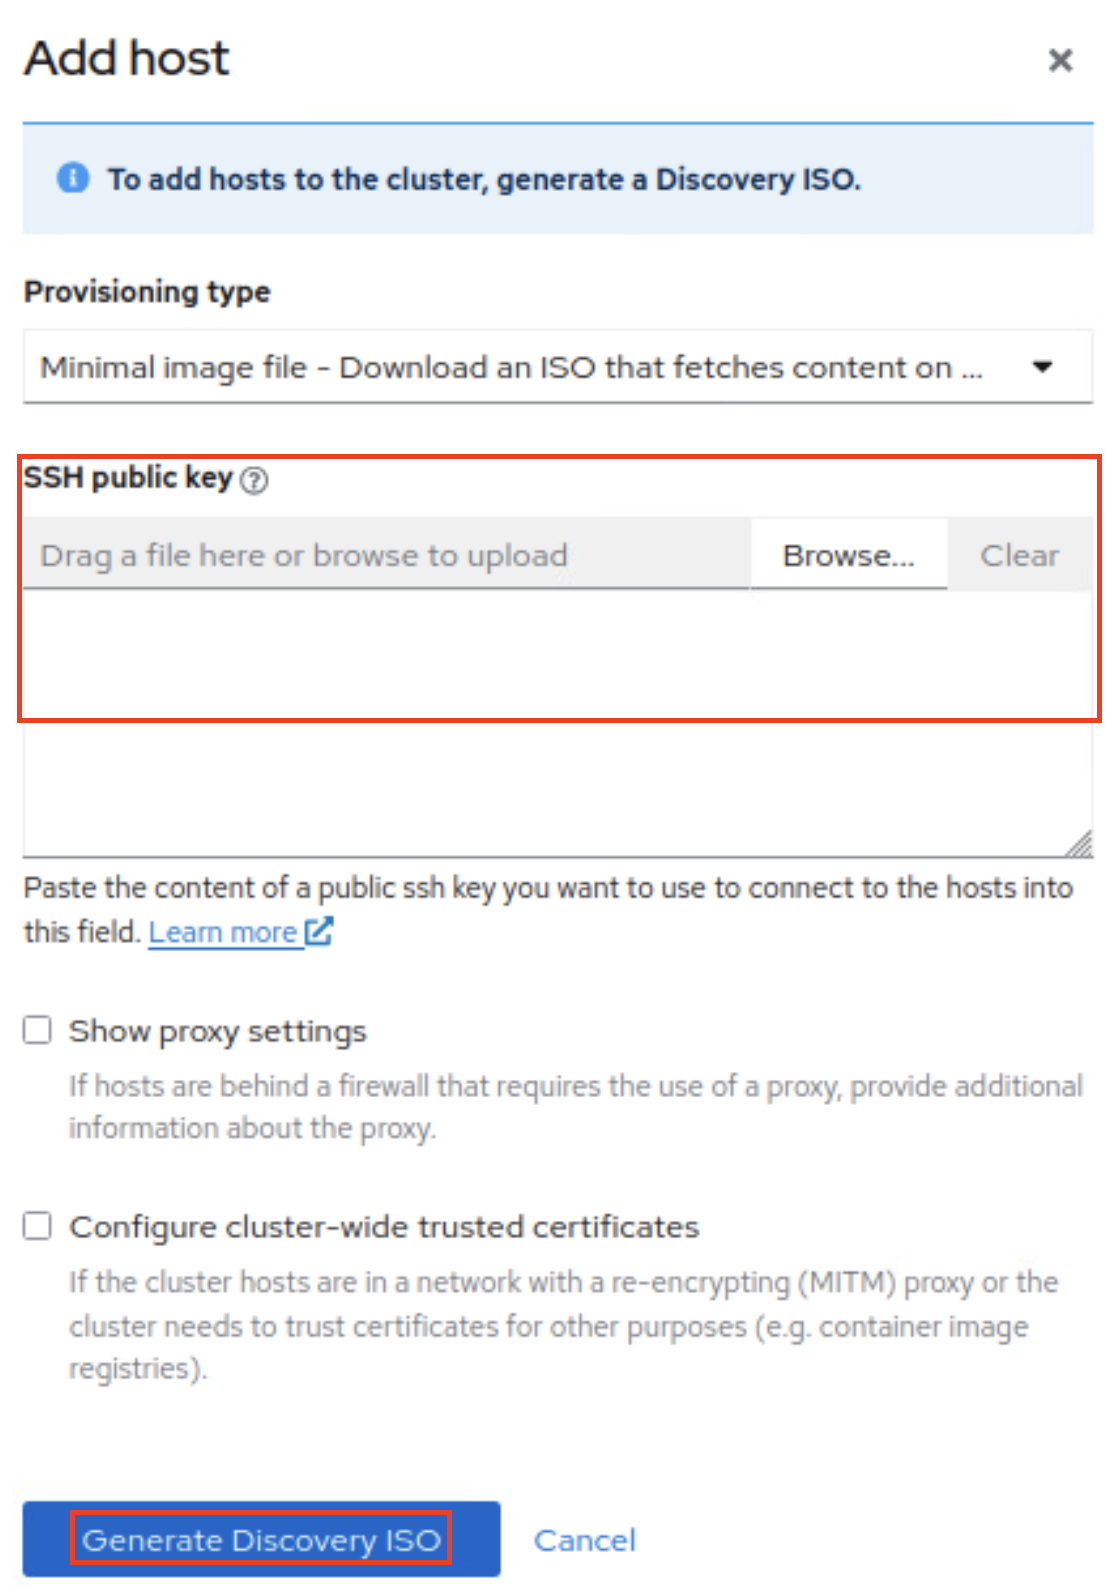
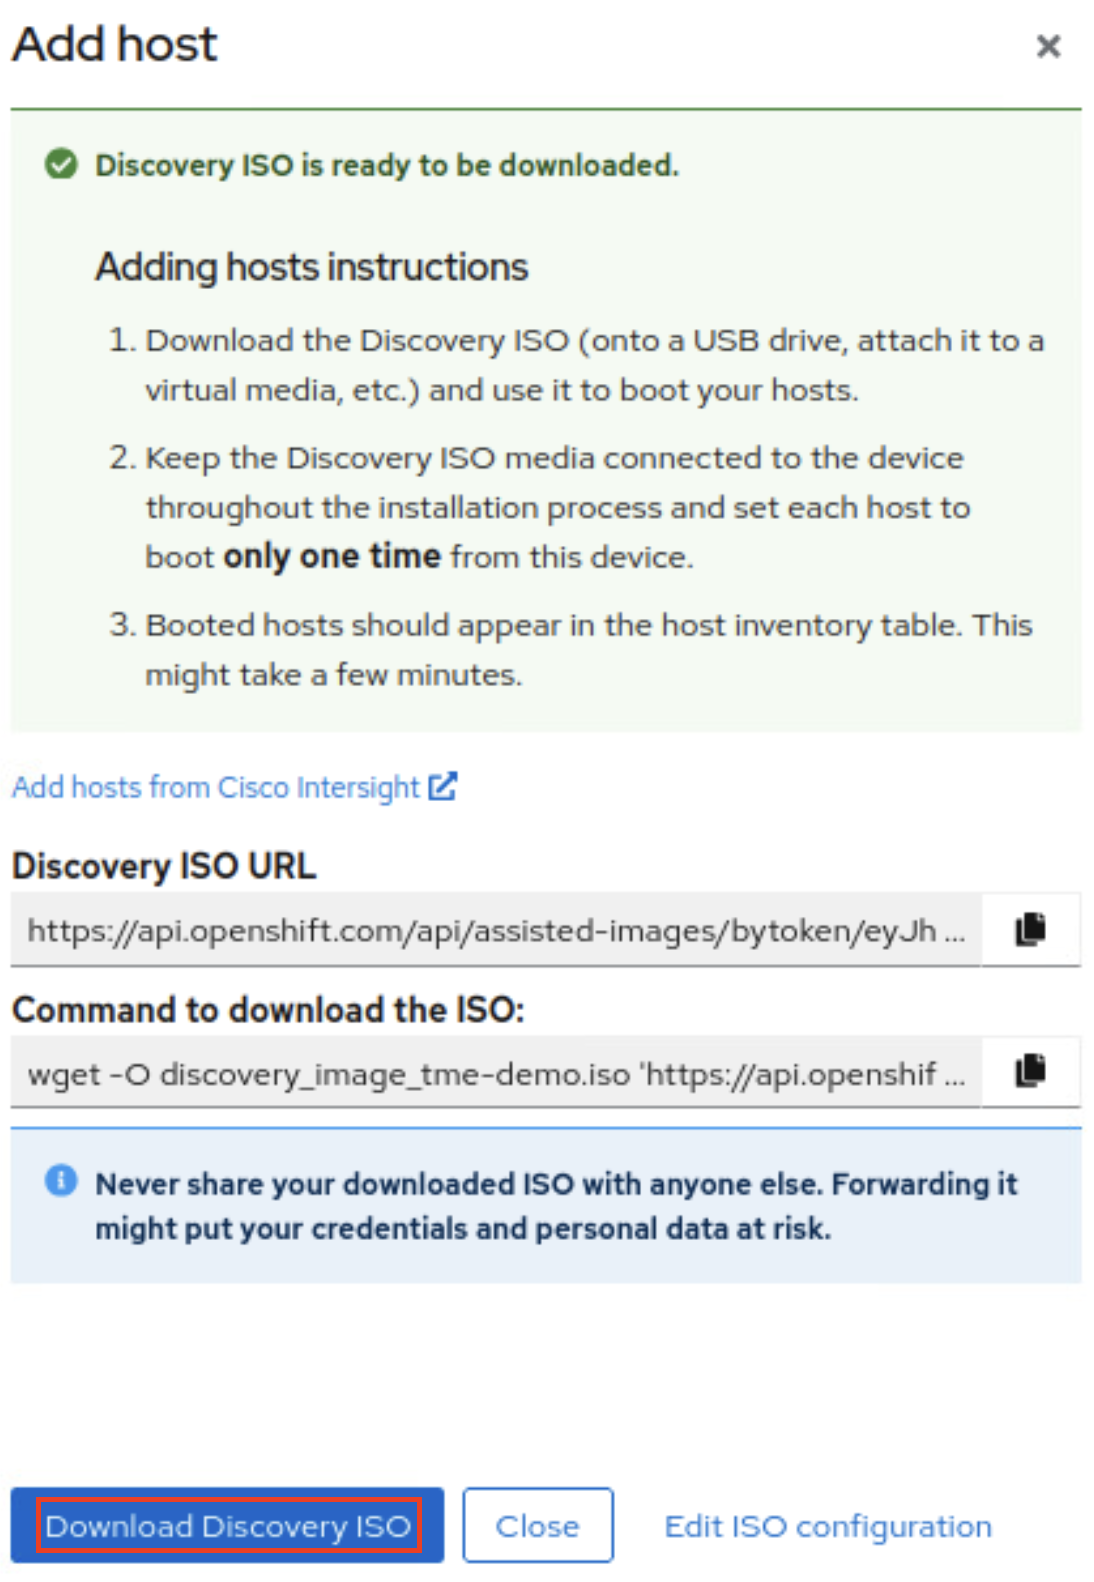
F5 XC ADSP - UC1 - OCP Infra Guide

Changed region(s): [[0.0, 0.1549, 0.9945, 0.8673], [0.0, 0.0, 0.9945, 0.1239], [0.0, 0.9292, 0.9013, 0.9912]]

diff --git a/workflow-guides/application-delivery-security/workload/ocp-infra-setup.rst b/workflow-guides/application-delivery-security/workload/ocp-infra-setup.rst
@@ -49,7 +49,7 @@ Creating Cluster from Red Hat Console:
 
 .. image:: ./assets/assets-ocp-infra/8.png
 
-11. Provide SSH key and click “Generate Discovery ISO”
+11. Provide SSH key (optional) and click “Generate Discovery ISO”
 
 .. image:: ./assets/assets-ocp-infra/9.png
 
